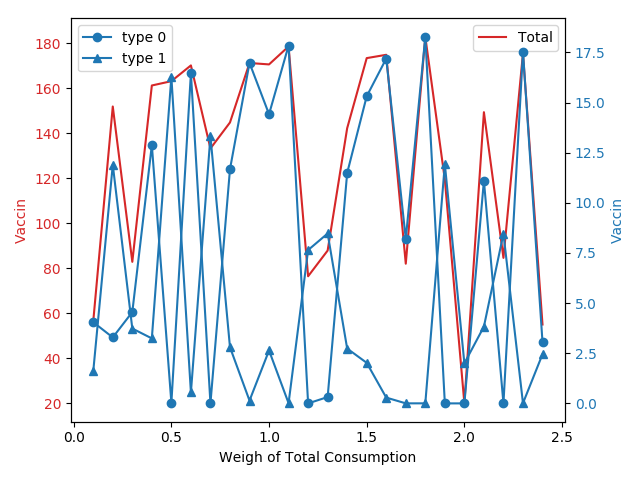
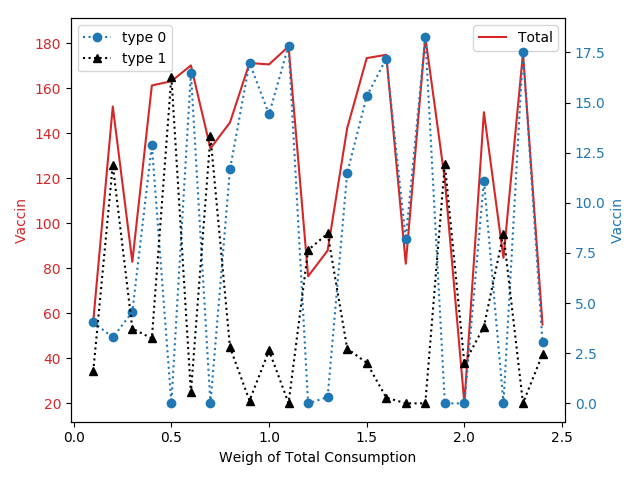
Double check all modules and make a little test on initial value of optimization

diff --git a/SocialPlanner/WelfareCES.py b/SocialPlanner/WelfareCES.py
@@ -1,6 +1,6 @@
 #import ConsumerCES_class as cons
 class Social:
-    def __init__(self,Agent_Type,People_of_Type,Factor_sup,Production_Par,InvPar,Vac_Par,Shape_of_SWF):
+    def __init__(self,Agent_Type,People_of_Type,Factor_sup,Production_Par,InvPar,Vac_Par,Shape_of_SWF,init):
         import ConsumerCES_class as Cons
         import ProducerCES as Pros
         import numpy as np
@@ -12,16 +12,17 @@ class Social:
         self.nf=self.Factor_sup.shape[0]
         self.Production_Par=Production_Par
         self.InvPar=InvPar
-        self.People=[[]]*self.nt
         self.Vac_Par=np.array(Vac_Par[1:])
         self.DoVac=Vac_Par[0]
         self.V=Shape_of_SWF
+        self.init=init
+        self.People=[[]]*self.nt
         for i in range(self.nt):
             self.People[i]=Cons.Consumer(self.Agent_Type[:,0:self.ng][i],
                                          self.Agent_Type[:,self.ng:self.ng+1][i],
                                          np.outer(np.ones((self.nt,1),dtype=float),self.Factor_sup)[i],
-                                         np.outer(np.ones((self.nt,1),dtype=float),self.InvPar[0])[i],
-                                         np.outer(np.ones((self.nt,1),dtype=float),self.InvPar[1])[i])
+                                         self.InvPar[0],
+                                         self.InvPar[1])
         self.Firm=[[]]*self.ng
         for i in range(self.ng):
             self.Firm[i]=Pros.Product(self.Production_Par[:,0:self.nf][i],
@@ -43,14 +44,19 @@ class Social:
         SocialPlan=[g1_1,g2_1,...,gG_1,f1_1,f2_1,...,fF_1;
         g1_2,g2_2,...,gG_2,f1_2,f2_2,...,fF_2;
         ... ...;
-        g1_H,g2_H,...,gG_H,f1_H,f2_H,...,fF_H]
+        g1_H,g2_H,...,gG_H,f1_H,f2_H,...,fF_H;
+        g1,f1_1,f2_1,...,fF_1;
+        ......;
+        gG,f1_G,f2_G,...fF_G;]
         '''
         ###Where to place the package of Vaccination
+        '''self.DoVac is True, if there is externality'''
         if self.DoVac==True:
             Ind_EU=Vac.Expected_Uti(utility,SocialPlan,self.People_of_Type,self.Vac_Par,self.nt,self.ng,self.nf)
             return sign*np.power(np.dot(self.People_of_Type,np.power(Ind_EU,self.V)),1.0/self.V)
         else:
             return sign*np.power(np.dot(self.People_of_Type,np.power(utility,self.V)),1.0/self.V)
+            #return sign*np.dot(self.People_of_Type,utility)
 
     def Technology(self,SocialPlan):
         '''This function guarantees the goods variables in SocialPlan are
@@ -60,12 +66,15 @@ class Social:
         import numpy as np
         NT=np.zeros((self.nt,self.nt),float)
         np.fill_diagonal(NT,self.People_of_Type)
+        '''Use production function to gG=Tech(f1_G,f2_G,...,fF_G)'''
         for i in range(self.ng):
             SocialPlan[self.nt*(self.ng+self.nf)+i*(1+self.nf)]=self.Firm[i].Tech(SocialPlan[self.nt*(self.ng+self.nf)+i*(1+self.nf)+1:
                                                                                              self.nt*(self.ng+self.nf)+(i+1)*(1+self.nf)])
+        '''Take out the first column of ProSide, g1,g2,...,gG'''           
         ProSide=SocialPlan[self.nt*(self.ng+self.nf):]
         ProSide=np.reshape(ProSide,(self.ng,1+self.nf))
         TotalProduct=ProSide[:,0]
+        '''Take out the sum of goods consumptions'''
         ConSide=SocialPlan[0:self.nt*(self.ng+self.nf)]
         ConSide=np.reshape(ConSide,(self.nt,self.ng+self.nf))
         ConSide=np.sum(np.matmul(NT,ConSide),0)
@@ -96,7 +105,8 @@ class Social:
             utility[i]=self.People[i].utility(SocialPlan[i*(self.ng+self.nf):(i+1)*(self.ng+self.nf)])
         utility=np.array(utility)
         if self.DoVac==True:
-            Ind_EU=np.array(Vac.Expected_Uti(utility,SocialPlan,self.People_of_Type,self.Vac_Par,self.nt,self.ng,self.nf))
+            Ind_EU=np.array(Vac.Expected_Uti(utility,SocialPlan,self.People_of_Type,
+                                             self.Vac_Par,self.nt,self.ng,self.nf))
             return Ind_EU
         else:
             return utility
@@ -120,6 +130,6 @@ class Social:
         2.Objective function is Social Welfare function.
         3."MarketClears" &"Technology" set as the constrain of optimization problem.
         """
-        res = minimize(self.Welfare, [50.0]*(self.nt*(self.ng+self.nf)+self.ng*(1+self.nf)), args=(-1.0,),
+        res = minimize(self.Welfare, [self.init]*(self.nt*(self.ng+self.nf)+self.ng*(1+self.nf)), args=(-1.0,),
                        constraints=self.Constraint(), method='SLSQP', options={'disp': False,'maxiter':1000})
         return res

diff --git a/SocialPlanner/SimulationFile.py b/SocialPlanner/SimulationFile.py
@@ -7,20 +7,20 @@ import numpy as np
 individuals, goods and factors'''
 '''Make sure that gamma is <1&!=0 and sigma is in (0,inf)&!=1'''
 Gamma=0.5
-Sigma=0.0
+Sigma=0.5
 Inv_Par=np.append(Gamma,Sigma)
 Shape_of_SWF=1.0
 
 '''Here are parameters of vaccination.'''
-DoVac=True
-#Base_Pr=0.2
+DoVac=False
+Base_Pr=0.2
 Effect_Vaccin=3.0
 Weight_of_Total_Consumption=3.0
 gamma=1.0
 Badstate_discount=0.5
-Absolute_Weakness=5.0
-#Vac_Par=[DoVac,Base_Pr,Effect_Vaccin,Weight_of_Total_Consumption,gamma,
-#         Badstate_discount,Absolute_Weakness]
+Absolute_Weakness=1.0
+Vac_Par=[DoVac,Base_Pr,Effect_Vaccin,Weight_of_Total_Consumption,gamma,
+         Badstate_discount,Absolute_Weakness]
 
 Type_of_consumers=2
 number_of_goods=2
@@ -28,14 +28,30 @@ number_of_factors=2
 ''' alphas & beta '''
 Agent_Type=np.array([[0.4,0.6,0.8],
                      [0.2,0.8,0.3]])
-People_of_Type=np.array([10,10])
+People_of_Type=np.array([100,100])
 '''thetas'''
 Factor_sup=np.array([3,2])
 '''psis&ksi'''
-Production_Par=np.array([[11,12,0.8],
+Production_Par=np.array([[8,12,0.8],
                          [12,3,0.5]])
 
-BP=np.arange(0.,1.,0.05)
+test=np.arange(0.0,150.0,10.0)
+Record=[[]]*len(test)
+for i in range(len(test)):
+    A=Soc.Social(Agent_Type,People_of_Type,Factor_sup,Production_Par,Inv_Par,Vac_Par,Shape_of_SWF,test[i])
+    Record[i]=A.Welfare_max().x
+Record=np.transpose(Record)
+print Record
+cord=np.transpose(np.array(Record))
+import matplotlib.pyplot as plt
+for i in range(len(test)):
+    plt.plot(test,cord[i])
+plt.xlabel('initial array')
+plt.title('Initial value robustness test')
+plt.legend()
+#plt.savefig('InitialTest.png',format='png')
+plt.show
+'''BP=np.arange(0.,1.,0.05)
 Welfare=[]
 UA=[]
 UB=[]
@@ -59,7 +75,7 @@ for i in range(len(BP)):
     Welfare=np.append(Welfare,A.Welfare(Result))
     UA=np.append(UA,A.People[0].utility(Consumer[0]))
     UB=np.append(UB,A.People[1].utility(Consumer[1]))
-
+'''
 '''import matplotlib.pyplot as plt
 plt.plot(BP, VacA, 'ro-',label='type 0')
 plt.plot(BP, VacB, 'bo-',label='type 1')
@@ -70,7 +86,7 @@ plt.title("Vaccination vs Base Probability")
 plt.legend()
 plt.show()'''
 
-import matplotlib.pyplot as plt
+#import matplotlib.pyplot as plt
 '''fig, ax1 = plt.subplots()
 color = 'tab:red'
 ax1.set_xlabel('Base Prob')
@@ -92,7 +108,7 @@ plt.savefig('Welfare-BasePro.png',format='png')
 plt.show()
 '''
 
-import matplotlib.pyplot as plt
+'''import matplotlib.pyplot as plt
 fig, ax1 = plt.subplots()
 color = 'tab:red'
 ax1.set_xlabel('Base Prob')
@@ -110,8 +126,8 @@ ax2.legend()
 #ax1.title("Utility vs Base Probability")
 #fig.legend()
 fig.tight_layout()
-plt.savefig('Vaccin-BasePro.png',format='png')
-plt.show()
+plt.savefig('Vaccin-BasePro_1.png',format='png')
+plt.show()'''
 
 #for i in range(Type_of_consumers):
 #    print "The "+str(i+1)+" type of agent consumes goods: "+np.array2string(Result[i*(number_of_goods+number_of_factors):i*(number_of_goods+number_of_factors)+number_of_goods])

diff --git a/SocialPlanner/SimulationFile_Weight.py b/SocialPlanner/SimulationFile_Weight.py
@@ -71,7 +71,7 @@ plt.legend()
 plt.show()'''
 
 import matplotlib.pyplot as plt
-'''
+
 fig, ax1 = plt.subplots()
 color = 'tab:red'
 ax1.set_xlabel('Weigh of Total Consumption')
@@ -82,8 +82,8 @@ ax1.legend()
 ax2 = ax1.twinx()
 color = 'tab:blue'
 ax2.set_ylabel('Utility', color=color)
-ax2.plot(WTC, UA, 'o-',label='type 0',color=color)
-ax2.plot(WTC, UB, '^-',label='type 1',color='black')
+ax2.plot(WTC, UA, 'o:',label='type 0',color=color)
+ax2.plot(WTC, UB, '^:',label='type 1',color='black')
 ax2.tick_params(axis='y', labelcolor=color)
 ax2.legend()
 #ax1.title("Utility vs Base Probability")
@@ -102,8 +102,8 @@ ax1.legend()
 ax2 = ax1.twinx()
 color = 'tab:blue'
 ax2.set_ylabel('Vaccin', color=color)
-ax2.plot(WTC, VacA, 'o-',label='type 0',color=color)
-ax2.plot(WTC, VacB, '^-',label='type 1',color=color)
+ax2.plot(WTC, VacA, 'o:',label='type 0',color=color)
+ax2.plot(WTC, VacB, '^:',label='type 1',color='black')
 ax2.tick_params(axis='y', labelcolor=color)
 ax2.legend()
 #ax1.title("Utility vs Base Probability")
@@ -112,7 +112,7 @@ fig.tight_layout()
 plt.savefig('Vaccin-WT.png',format='png')
 plt.show()
 '''
-'''
+
 #for i in range(Type_of_consumers):
 #    print "The "+str(i+1)+" type of agent consumes goods: "+np.array2string(Result[i*(number_of_goods+number_of_factors):i*(number_of_goods+number_of_factors)+number_of_goods])
 #    print "The "+str(i+1)+" type of agent supplys factors: "+np.array2string(Result[i*(number_of_goods+number_of_factors)+number_of_goods:

diff --git a/SocialPlanner/Vaccination.py b/SocialPlanner/Vaccination.py
@@ -13,7 +13,7 @@ def infect_Pr(Ind_Vaccin,People_of_Type,Vac_Par):
     gamma=Vac_Par[3]
     Total_Vaccin=np.dot(People_of_Type,Ind_Vaccin)
     return np.array(Base_Pr/(Effect_Vaccin*
-                             np.power(np.power(Ind_Vaccin,gamma)+Weight*np.power(Total_Vaccin,gamma),gamma)+
+                             np.power(np.power(Ind_Vaccin,gamma)+Weight*np.power(Total_Vaccin,gamma),1/gamma)+
                               1))
     #return Base_pr/(A*np.power(Ind_Vaccin,alpha)*np.power(Total_Vaccin,1-alpha)+1.0)
 
